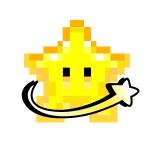
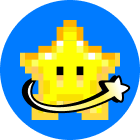
오류수정하고 아이콘 바꿈.

diff --git a/project01/src/components/ChatbotModal.jsx b/project01/src/components/ChatbotModal.jsx
@@ -4,8 +4,8 @@ import { Link, useNavigate } from 'react-router-dom'; // ✅ useNavigate 추가
 import close from '../assets/img/header_close.png';
 import talk from '../assets/img/chatbot-talkicon.png';
 import ask from '../assets/img/chatbot-ask.png';
-import profile from '../assets/img/chat-icon.png';
-import profile2 from '../../public/loopin.svg';
+import profile from '../assets/img/chatbot-profile.png';
+import profile2 from '../assets/img/chatbot-profile2.png';
 
 const ChatbotModal = ({ onClose }) => {
   const navigate = useNavigate(); // ✅ navigator 훅
@@ -20,7 +20,7 @@ const ChatbotModal = ({ onClose }) => {
 
         <div className="chatbot-header">
           <div className="chatbot-profile">
-            <p className="profileImg"><img src={profile} alt="" /></p>
+            <p className="profileImg"><img src={profile2} alt="" /></p>
             <div className="rightText">
               <p className="name">LOOPIN</p>
               <span className='time'> 10:00 ~ 18:00</span>
@@ -34,7 +34,7 @@ const ChatbotModal = ({ onClose }) => {
         <div className="chatbot-body">
           <div className="chatbot-conBox">
             <div className="profile">
-              <p className="img"><img src={profile2} alt="" /></p>
+              <p className="img"><img src={profile} alt="" /></p>
               <div className="profile-name">
                 <p className='name'>LOOPIN</p>
                 <p className='intro'>안녕하세요 <br />LOOPIN입니다 💙</p>

diff --git a/project01/src/components/ChatbotModal.css b/project01/src/components/ChatbotModal.css
@@ -20,7 +20,7 @@
 }
 .chatbot-modal .chatbot-profile {display: flex;padding: 21px 0;align-items: center;}
 .chatbot-modal .chatbot-profile .profileImg {width: 60px;height: 60px;}
-.chatbot-modal .chatbot-profile .profileImg img {width: 100%;height: 100%;object-fit: cover;}
+.chatbot-modal .chatbot-profile .profileImg img {width: 100%;height: 100%;object-fit: cover;border: 1px solid #111;border-radius: 18px;}
 .chatbot-modal .chatbot-profile .rightText {
   margin-left: 12px;
   display: flex;

diff --git a/project01/src/components/ChatbotView.jsx b/project01/src/components/ChatbotView.jsx
@@ -2,7 +2,7 @@ import React, { useState } from 'react';
 import './ChatbotView.css';
 import close from '../assets/img/header_close.png';
 import back from '../assets/img/header_back.png';
-import profile from '../../public/loopin.svg';
+import profile from '../assets/img/chatbot-profile.png';
 import notice from '../assets/img/noticeicon.png';
 
 import { useLocation ,useNavigate } from 'react-router-dom';
